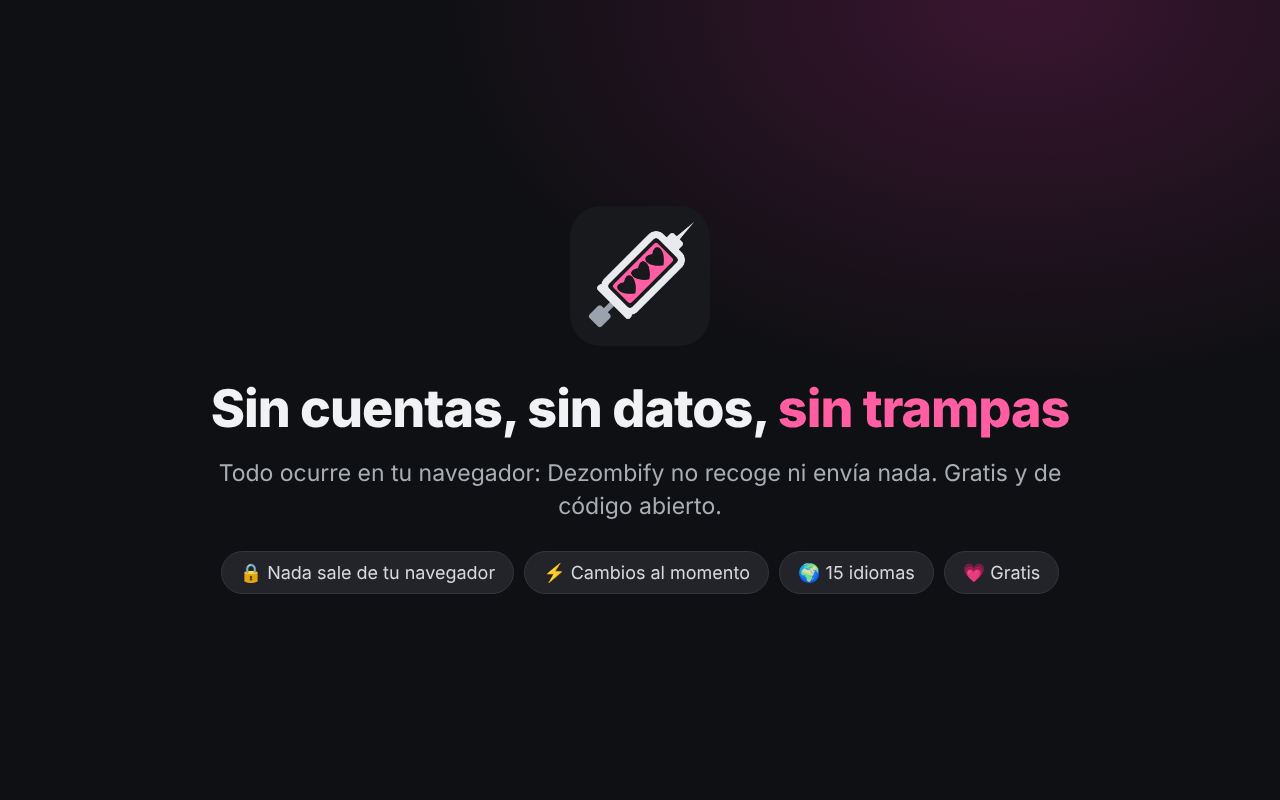
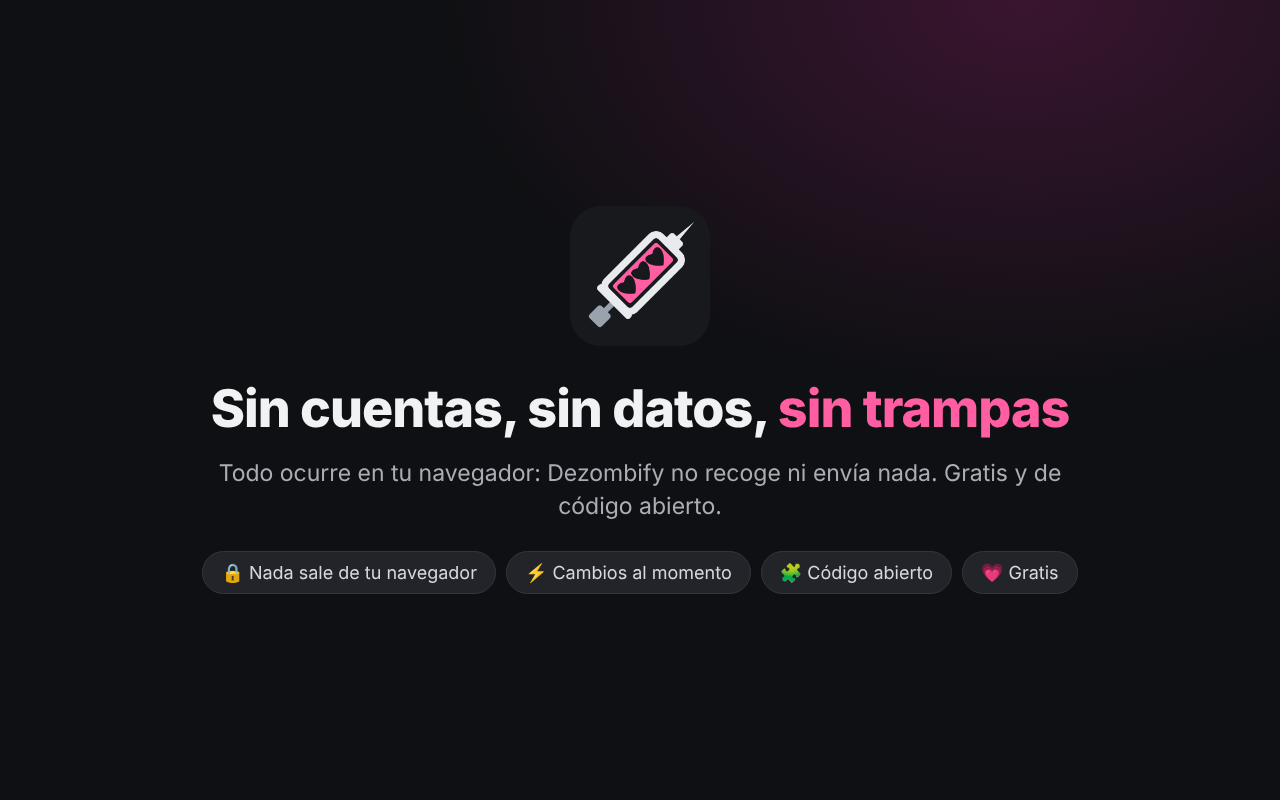
Ficha de la tienda de Dezombify 2.0.0 (es/en) y captura 4 sin «15 idiomas»
Claude-Session: https://claude.ai/code/session_01NeU9qbuaRk8ecVPg91meDH

Changed region(s): [[0.4062, 0.6875, 0.7188, 0.75], [0.1562, 0.6875, 0.375, 0.75], [0.75, 0.6875, 0.8438, 0.75]]

diff --git a/store/src/store.html b/store/src/store.html
@@ -85,11 +85,11 @@ em{font-style:normal;color:#ff5fa2}
 const T={es:{h1:'Mata al algoritmo.<br>Trae a tus <em>amigos</em> de vuelta.',l1:'Tus redes, solo con lo que publica quien sigues: sin feeds «Para ti», sugerencias ni anuncios.',foryou:'Para ti',following:'Siguiendo',ad:'Publicidad',sugg:'Sugerido para ti',viral:'Te puede gustar',f1:'Tu hermana',f2:'Ana',f3:'El grupo del barrio',f4:'Carlos',
 h2:'Cada red, sus opciones.<br><em>Solo cuando estás en ella.</em>',l2:'Abre el panel en la red que estás usando y decide qué ocultar: lo que comparten, la actividad, Reels o Shorts.',
 h3:'Nueve redes sociales,<br><em>un solo interruptor.</em>',l3:'Todas las opciones juntas en la página de ajustes. Los cambios se aplican al momento.',
-h4:'Sin cuentas, sin datos, <em>sin trampas</em>',l4:'Todo ocurre en tu navegador: Dezombify no recoge ni envía nada. Gratis y de código abierto.',p1:'🔒 Nada sale de tu navegador',p2:'⚡ Cambios al momento',p3:'🌍 15 idiomas',p4:'💗 Gratis',tag:'Mata al algoritmo',mq:'Mata al algoritmo de tus redes sociales y trae a tus amigos de vuelta a casa, sanos y salvos.'},
+h4:'Sin cuentas, sin datos, <em>sin trampas</em>',l4:'Todo ocurre en tu navegador: Dezombify no recoge ni envía nada. Gratis y de código abierto.',p1:'🔒 Nada sale de tu navegador',p2:'⚡ Cambios al momento',p3:'🧩 Código abierto',p4:'💗 Gratis',tag:'Mata al algoritmo',mq:'Mata al algoritmo de tus redes sociales y trae a tus amigos de vuelta a casa, sanos y salvos.'},
 en:{h1:'Kill the algorithm.<br>Bring your <em>friends</em> back.',l1:'Your social networks with only what the people you follow post: no “For you” feeds, suggestions or ads.',foryou:'For you',following:'Following',ad:'Sponsored',sugg:'Suggested for you',viral:'You might like',f1:'Your sister',f2:'Anna',f3:'Neighbourhood group',f4:'Charlie',
 h2:'Each network, its own options.<br><em>Only when you’re on it.</em>',l2:'Open the panel on the network you’re using and choose what to hide: shares, activity, Reels or Shorts.',
 h3:'Nine social networks,<br><em>one switch.</em>',l3:'Every option together on the settings page. Changes apply instantly.',
-h4:'No accounts, no data, <em>no tricks</em>',l4:'Everything happens in your browser: Dezombify collects and sends nothing. Free and open source.',p1:'🔒 Nothing leaves your browser',p2:'⚡ Instant changes',p3:'🌍 15 languages',p4:'💗 Free',tag:'Kill the algorithm',mq:'Kill the algorithm of your social networks and bring your friends back home, safe and sound.'}};
+h4:'No accounts, no data, <em>no tricks</em>',l4:'Everything happens in your browser: Dezombify collects and sends nothing. Free and open source.',p1:'🔒 Nothing leaves your browser',p2:'⚡ Instant changes',p3:'🧩 Open source',p4:'💗 Free',tag:'Kill the algorithm',mq:'Kill the algorithm of your social networks and bring your friends back home, safe and sound.'}};
 const q=new URLSearchParams(location.search),lang=q.get('l')||'es';
 document.body.dataset.v=q.get('v')||'s1';
 document.querySelectorAll('[data-t]').forEach(e=>e.innerHTML=T[lang][e.dataset.t]);

diff --git a/CHROMEWEBSTORE.md b/CHROMEWEBSTORE.md
@@ -1,105 +1,127 @@
-# Chrome Web Store — Solo Siguiendo para X
+# Chrome Web Store — Dezombify
 
-> Última actualización: 2026-11-22 · Versión 1.0.0
+> Última actualización: 2026-11-22 · Versión 2.0.0 (actualización del ítem «Solo Siguiendo para X», id `fhajebegoleecljdhfokiokejdkalhji`)
 
-Paquete a subir: `dist/solo-siguiendo-x-1.0.0.zip` (generado con `./build.sh`).
+Paquete a subir: `releases/dezombify-2.0.0.zip` (también en el release v2.0.0 de GitHub).
+Idiomas del paquete: español (predeterminado) e inglés.
 
 ---
 
-## 1. Ficha de Play Store → «Store listing»
+## 1. Paquete → «Package»
 
-**Nombre** (sale del manifest)
-```
-Solo Siguiendo para X
-```
+Sube `dezombify-2.0.0.zip` como nueva versión. El nombre y la descripción breve salen del manifest:
 
-**Resumen / descripción breve** (máx. 132)
-```
-Limita tu feed de X a las cuentas que sigues: abre siempre Siguiendo y oculta Para ti, anuncios y sugerencias.
-```
+- **Nombre:** `Dezombify`
+- **Descripción breve (es, 127 caracteres):** Mata al algoritmo de tus redes sociales y trae a tus amigos de vuelta a casa, sanos y salvos: solo lo que publica quien sigues.
+- **Descripción breve (en, 127 caracteres):** Kill the algorithm of your social networks and bring your friends back home, safe and sound: only posts from people you follow.
 
-**Descripción**
+---
+
+## 2. Ficha → «Store listing»
+
+**Categoría:** Social Networking (Redes sociales)
+**Idioma principal:** Español
+
+### Descripción — Español
+
 ```
-Solo Siguiendo para X hace que tu inicio de X (Twitter) muestre únicamente publicaciones de las cuentas que sigues, sin el feed algorítmico.
+Dezombify mata al algoritmo de tus redes sociales y trae a tus amigos de vuelta a casa, sanos y salvos.
+
+Las redes ya no te enseñan lo que publica la gente que sigues: te llenan el inicio de «Para ti», sugerencias, vídeos virales y anuncios para que sigas haciendo scroll. Dezombify devuelve tu inicio a lo que de verdad elegiste seguir.
+
+Funciona en X, YouTube, Instagram, Facebook, LinkedIn, TikTok, Threads, Bluesky y Twitch.
 
 QUÉ HACE
-• Abre siempre la pestaña «Siguiendo» en lugar de «Para ti».
-• Oculta la pestaña «Para ti» para que no vuelvas a caer en ella.
-• Oculta las publicaciones promocionadas (anuncios).
-• Oculta los bloques de «A quién seguir» y las tendencias.
-• Opcional: oculta los reposts, que suelen mostrar contenido de cuentas que no sigues.
+• Abre siempre el feed de quien sigues (Siguiendo, Suscripciones o el cronológico de amigos) en lugar del algorítmico.
+• Oculta las pestañas «Para ti», las sugerencias de cuentas, las tendencias y las publicaciones promocionadas.
+• Opcional, en cada red: ocultar lo que tus contactos republican o comparten, la actividad («A X le gusta…», «X y Y siguen a…»), Reels, Shorts y vídeos recomendados.
+• En YouTube puede ocultar los anuncios gráficos y pulsar «Saltar» en los anuncios de vídeo en cuanto se permite.
 
-CÓMO SE USA
-1. Instala la extensión.
-2. Abre x.com: el inicio pasará solo a «Siguiendo».
-3. Pulsa el icono de la extensión para activar o desactivar cada opción. Los cambios se aplican al instante.
+OPCIONES SIN LÍOS
+Al abrir el panel ves solo las opciones de la red en la que estás. Todas las demás están juntas en la página de opciones. Los cambios se aplican al momento, sin recargar.
 
 PRIVACIDAD
-La extensión no recoge, envía ni vende ningún dato. Funciona solo en x.com y twitter.com, y únicamente guarda tus preferencias (qué opciones tienes activadas) en Chrome. Sin analítica ni servicios de terceros.
+Dezombify no recoge, envía ni vende ningún dato. Todo ocurre en tu navegador: tus preferencias se guardan en el almacenamiento de Chrome y solo se cuenta en local cuántas veces la usas, para pedirte de vez en cuando una valoración. Sin cuentas, sin analítica, sin servidores.
 
-CÓDIGO ABIERTO
-El código es público y puedes revisarlo o reportar problemas en:
-https://github.com/GofioDesign/dezombify
+GRATIS Y DE CÓDIGO ABIERTO
+Código fuente: https://github.com/GofioDesign/dezombify
+Más extensiones y donaciones voluntarias: https://gofiodesign.eu/extensiones.html
 
-Proyecto independiente, sin relación con X Corp.
+Funciona en el navegador del ordenador; no cambia las apps del móvil.
 ```
 
-**Categoría**
+### Description — English
+
 ```
-Redes sociales y comunicación (Social & Communication)
+Dezombify kills the algorithm of your social networks and brings your friends back home, safe and sound.
+
+Social networks no longer show you what the people you follow post: they fill your home feed with “For you”, suggestions, viral videos and ads to keep you scrolling. Dezombify brings your feed back to what you actually chose to follow.
+
+It works on X, YouTube, Instagram, Facebook, LinkedIn, TikTok, Threads, Bluesky and Twitch.
+
+WHAT IT DOES
+• Always opens the feed of people you follow (Following, Subscriptions or the chronological friends feed) instead of the algorithmic one.
+• Hides “For you” tabs, account suggestions, trends and promoted posts.
+• Optional, per network: hide what your contacts repost or share, activity (“X likes this”, “X and Y follow…”), Reels, Shorts and recommended videos.
+• On YouTube it can hide display ads and press “Skip” on video ads as soon as it is allowed.
+
+NO CLUTTER
+The panel only shows the options for the network you are on. Everything else is together on the options page. Changes apply instantly, no reload needed.
+
+PRIVACY
+Dezombify does not collect, send or sell any data. Everything happens in your browser: your preferences are stored in Chrome storage and only a local count of how often you use it is kept, to occasionally ask for a rating. No accounts, no analytics, no servers.
+
+FREE AND OPEN SOURCE
+Source code: https://github.com/GofioDesign/dezombify
+More extensions and voluntary donations: https://gofiodesign.eu/extensiones.html
+
+Works in the desktop browser; it does not change mobile apps.
 ```
 
-**Idioma**
-```
-Español
-```
+> Las marcas de las redes aparecen una sola vez, en una frase, para no repetir el rechazo por «keyword stuffing».
 
-**Icono de la tienda (128×128)** → `extension/icons/icon-128.png`
+### Recursos gráficos (`store/es` y `store/en`)
 
-**Capturas (1280×800)** → `store/screenshot-1.png`, `store/screenshot-2.png`
+| Campo | Archivo |
+|---|---|
+| Icono de la tienda (128×128) | `extension/icons/icon-128.png` |
+| Capturas (1280×800) | `1-captura` … `4-captura-1280x800.png` |
+| Mosaico pequeño (440×280) | `mosaico-pequeno-440x280.png` |
+| Mosaico marquesina (1400×560) | `mosaico-marquesina-1400x560.png` |
 
-**Mosaico promocional pequeño (440×280)** → `store/promo-tile-440x280.png`
+Sube las de `store/es` en la ficha española y las de `store/en` en la inglesa.
 
-**Sitio web oficial / Página principal**
-```
-https://github.com/GofioDesign/dezombify
-```
+### Enlaces
 
-**URL de asistencia**
-```
-https://github.com/GofioDesign/dezombify/issues
-```
+- **URL oficial:** https://gofiodesign.eu
+- **Página principal:** https://github.com/GofioDesign/dezombify
+- **Soporte:** https://github.com/GofioDesign/dezombify/issues
 
 ---
 
-## 2. Pestaña «Privacidad» (Privacy practices)
+## 3. Privacidad → «Privacy practices»
 
-**Finalidad única (Single purpose)**
+**Propósito único**
 ```
-Mostrar en x.com solo las publicaciones de las cuentas que el usuario sigue, abriendo la pestaña «Siguiendo» y ocultando el feed algorítmico, los anuncios y las sugerencias.
+Dezombify makes supported social networks show only posts from accounts the user follows: it opens the "Following"/chronological feed instead of the algorithmic one and hides suggested content, promoted posts and other algorithmic recommendations, with per-network options.
 ```
 
 **Justificación de `storage`**
 ```
-Se usa para guardar las preferencias del usuario (qué opciones están activadas, por ejemplo «Ocultar anuncios» u «Ocultar reposts») y mantenerlas entre sesiones y dispositivos. No se guarda ningún otro dato.
+Stores the user's on/off settings for each social network (chrome.storage.sync) and, locally only, the install date and a usage count used to occasionally show a rating invitation and a yearly donation invitation. Nothing is transmitted.
 ```
 
-**Justificación de permisos de host (`https://x.com/*`, `https://twitter.com/*`)**
+**Justificación de los permisos de host**
 ```
-La extensión solo actúa en x.com y twitter.com: necesita acceder a estas páginas para cambiar a la pestaña «Siguiendo» y ocultar en la página los anuncios, las sugerencias de cuentas y, si el usuario lo elige, los reposts. No lee ni envía el contenido a ningún sitio; todo ocurre localmente en el navegador.
-```
-
-**¿Usas código remoto?**
-```
-No, no uso código remoto.
+The extension needs access to x.com, twitter.com, youtube.com, instagram.com, facebook.com, linkedin.com, tiktok.com, threads.com/threads.net, bsky.app and twitch.tv to run its content scripts on those sites only: redirect the home page to the feed of followed accounts and hide algorithmic, suggested and promoted elements in the page. It does not read, store or send page content or personal data. It runs on no other website.
 ```
 
-**Uso de datos** → no marcar ninguna categoría (no se recoge ningún dato).
+**Código remoto:** No, no uso código remoto.
 
-Marcar las tres certificaciones:
-- [x] No vendo ni transfiero datos de usuarios a terceros fuera de los casos de uso aprobados.
-- [x] No uso ni transfiero datos de usuarios para fines no relacionados con la finalidad única.
-- [x] No uso ni transfiero datos para determinar solvencia o conceder préstamos.
+**Uso de datos:** no marcar ninguna categoría. Marcar las tres certificaciones:
+- No vendo ni transfiero datos de usuario a terceros, salvo en los casos de uso aprobados.
+- No uso ni transfiero datos de usuario para fines no relacionados con el propósito único del elemento.
+- No uso ni transfiero datos de usuario para determinar la solvencia crediticia ni para conceder préstamos.
 
 **URL de la política de privacidad**
 ```
@@ -108,21 +130,9 @@ https://github.com/GofioDesign/dezombify/blob/main/PRIVACY.md
 
 ---
 
-## 3. Distribución
-
-- Visibilidad: **Pública**
-- Regiones: **Todas**
-- Precio: gratis
-
----
-
 ## Historial de versiones
 
-| Versión | Fecha | Cambios | Estado |
-|---|---|---|---|
-| 1.0.0 | 2026-11-22 | Primera versión | Borrador |
-
-## Notas para la revisión
-
-- El icono es propio (marca de verificación azul): no usa el logotipo de X, y la ficha aclara que no hay relación con X Corp. para evitar rechazos por marca.
-- Si piden aclarar el nombre: «para X» indica la web en la que funciona, no afiliación.
+| Versión | Fecha | Cambios |
+|---|---|---|
+| 2.0.0 | 2026-11-22 | Pasa a llamarse Dezombify. Nueve redes sociales, opciones por red, anuncios de YouTube, nuevo logo, bienvenida, aviso de valoración cada 5 usos. |
+| 1.0.0 | 2026-11 | «Solo Siguiendo para X»: solo X. |
